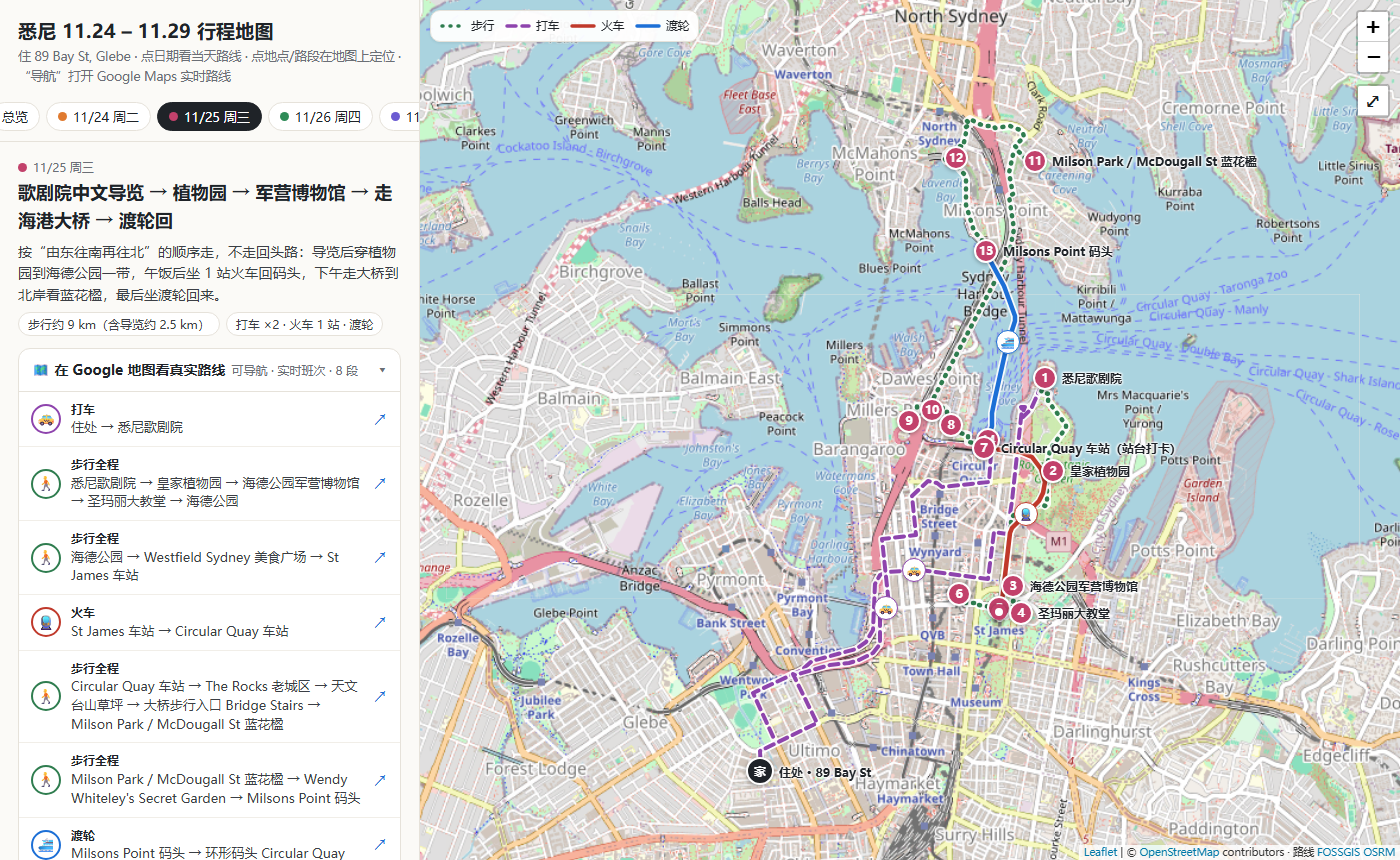
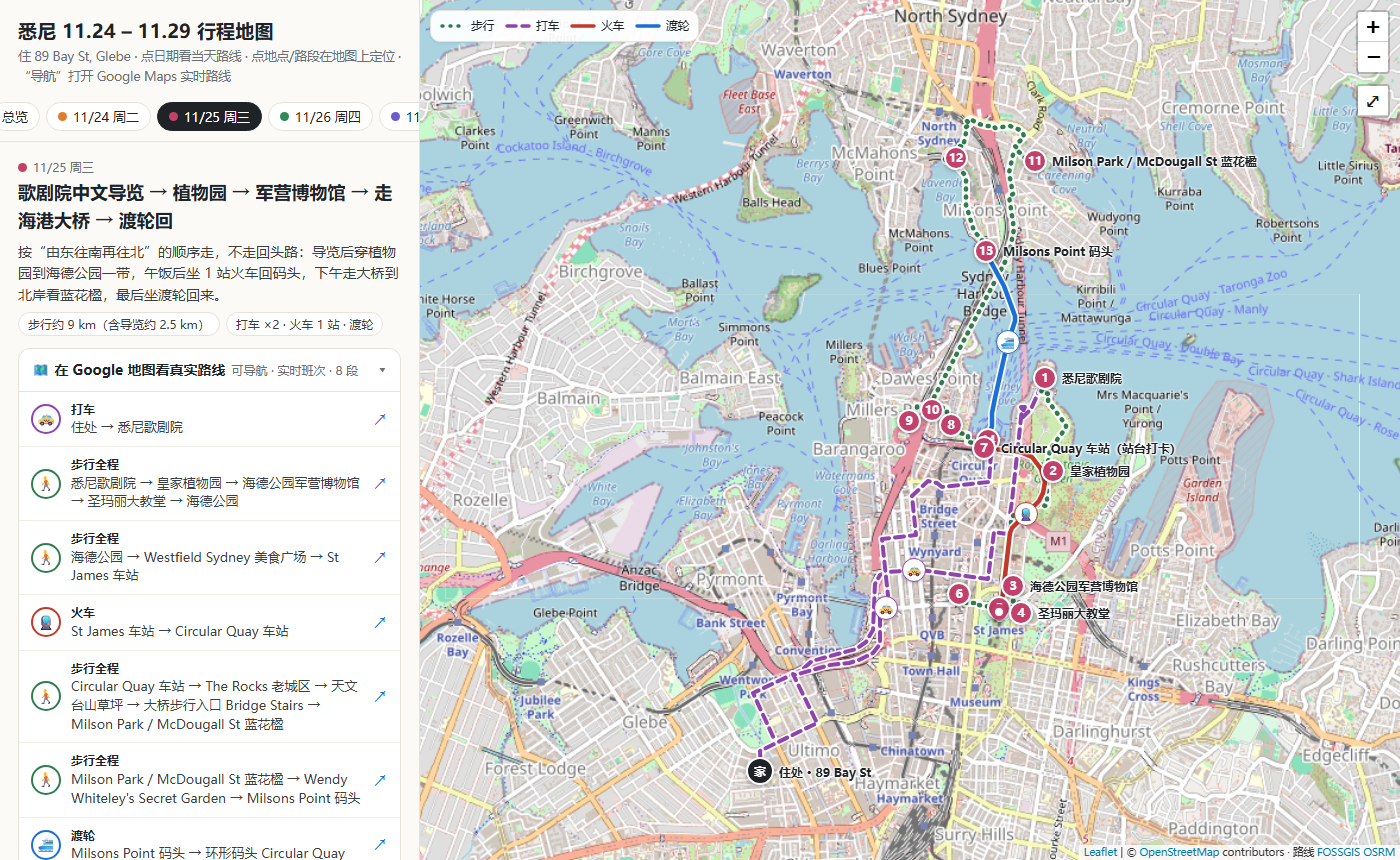
Hide map legend while a popup is open; test iPhone and Mate 40
On small screens (iPhone SE) the mode legend covered the popup title.
Leaflet's popup pane sits inside the map pane's stacking context, so a
z-index change can't lift it above the legend; hide the legend instead
while a popup is open.

Tests now run three phone profiles: iPhone 15 Pro and iPhone SE on
WebKit, Huawei Mate 40 on Chromium. WebKit gestures are dispatched as
touch events, which is what Leaflet listens to on iOS. The popup check
now also verifies the title is not covered.

diff --git a/app.css b/app.css
@@ -26,7 +26,8 @@ nav.tabs::-webkit-scrollbar{display:none}
 .leaflet-bar a.ctl{font-size:17px;line-height:30px;font-weight:600;color:var(--ink)}
 .leaflet-touch .leaflet-bar a.ctl{line-height:30px}
 .ctl-exp{display:none !important}
-.legend{position:absolute;left:10px;top:10px;z-index:900;background:rgba(255,255,255,.94);border:1px solid var(--line);border-radius:10px;padding:6px 9px;font-size:11.5px;display:flex;flex-wrap:wrap;gap:3px 11px;max-width:calc(100% - 70px);pointer-events:none;box-shadow:0 1px 3px rgba(0,0,0,.08)}
+.legend{position:absolute;left:10px;top:10px;z-index:900;transition:opacity .15s;background:rgba(255,255,255,.94);border:1px solid var(--line);border-radius:10px;padding:6px 9px;font-size:11.5px;display:flex;flex-wrap:wrap;gap:3px 11px;max-width:calc(100% - 70px);pointer-events:none;box-shadow:0 1px 3px rgba(0,0,0,.08)}
+.mapwrap.popopen .legend{opacity:0;visibility:hidden} /* 弹窗打开时收起图例，小屏上不会挡住弹窗 */
 .legend span{display:inline-flex;align-items:center;gap:5px;white-space:nowrap}
 .legend svg{display:block}
 #tip{position:absolute;z-index:1000;pointer-events:none;background:var(--ink);color:#fff;font-size:12px;padding:4px 8px;border-radius:6px;display:none;white-space:nowrap;max-width:calc(100% - 12px);overflow:hidden;text-overflow:ellipsis}

diff --git a/app.js b/app.js
@@ -191,7 +191,8 @@ function highlightLeg(x){
   legLines.forEach(o=>o.line.setStyle({opacity:o===x?1:(state.day?.35:.25)}));
   x.line.bringToFront();clearTimeout(hlTimer);
 }
-map.on("popupclose",()=>{legLines.forEach(o=>{const schem=(legInfo(o.lg)||{}).kind==="schematic";o.line.setStyle({opacity:state.day?(schem?.6:1):.8})});
+map.on("popupopen",()=>mapwrap.classList.add("popopen"));
+map.on("popupclose",()=>{mapwrap.classList.remove("popopen");legLines.forEach(o=>{const schem=(legInfo(o.lg)||{}).kind==="schematic";o.line.setStyle({opacity:state.day?(schem?.6:1):.8})});
   document.querySelectorAll(".leg.sel").forEach(e=>e.classList.remove("sel"))});
 const fmtDist=m=>m>=1000?(m/1000).toFixed(m>=10000?0:1)+" km":Math.round(m/10)*10+" m";
 

diff --git a/tests/check.py b/tests/check.py
@@ -1,4 +1,4 @@
-"""Playwright 检查：桌面 1400×860 与手机 390×844（触屏）。
+"""Playwright 检查：桌面 1400×860（Chromium），以及 iPhone 15 Pro / iPhone SE（WebKit）和华为 Mate 40（Chromium）三种手机。
 用法：先起本地服务器（python -m http.server 8765），再运行  python tests/check.py [http://127.0.0.1:8765/]
 截图写到 screenshots/。"""
 import json, math, pathlib, sys
@@ -40,9 +40,13 @@ def marker_xy(page, p):
         return {x:r.left+pt.x, y:r.top+pt.y} }""", p)
 
 def popup_inside(page):
+    """弹窗在地图范围内，并且弹窗标题没有被图例等浮层盖住"""
     return page.evaluate("""() => { const p=document.querySelector('.leaflet-popup'); if(!p) return null;
         const a=p.getBoundingClientRect(), b=document.getElementById('mapwrap').getBoundingClientRect();
-        return {inside: a.left>=b.left-1 && a.right<=b.right+1 && a.top>=b.top-1 && a.bottom<=b.bottom+1,
+        const h=p.querySelector('h4').getBoundingClientRect();
+        const covered=[[h.left+6,h.top+3],[h.left+h.width/2,h.top+3],[h.left+6,h.top+h.height/2],[h.right-6,h.top+h.height/2]]
+          .some(([x,y])=>{const e=document.elementFromPoint(x,y);return !(e && p.contains(e))});
+        return {inside: !covered && a.left>=b.left-1 && a.right<=b.right+1 && a.top>=b.top-1 && a.bottom<=b.bottom+1, covered,
                 text: p.innerText.slice(0,80), a:[a.left,a.top,a.right,a.bottom].map(Math.round), b:[b.left,b.top,b.right,b.bottom].map(Math.round)} }""")
 
 def common_checks(page, tag):
@@ -129,42 +133,74 @@ def desktop(pw):
     check("[桌面] 控制台无报错", not errs, " | ".join(errs[:5]))
     br.close()
 
-def touch(cdp, typ, pts):
-    cdp.send("Input.dispatchTouchEvent", {"type": typ, "touchPoints": [{"x": x, "y": y, "id": i} for i, (x, y) in enumerate(pts)]})
+IOS_UA = "Mozilla/5.0 (iPhone; CPU iPhone OS 18_0 like Mac OS X) AppleWebKit/605.1.15 (KHTML, like Gecko) Version/18.0 Mobile/15E148 Safari/604.1"
+# 手机机型：iPhone 用 WebKit（Safari 内核）；华为 Mate 40 用 Chromium（华为浏览器基于 Chromium），屏幕 2376×1080 @3x → 360 CSS px 宽
+PROFILES = {
+    "iphone15pro": dict(label="iPhone 15 Pro", engine="webkit", viewport={"width": 393, "height": 659}, screen={"width": 393, "height": 852}, dpr=3, ua=IOS_UA),
+    "iphonese":    dict(label="iPhone SE", engine="webkit", viewport={"width": 375, "height": 553}, screen={"width": 375, "height": 667}, dpr=2, ua=IOS_UA),
+    "mate40":      dict(label="华为 Mate 40", engine="chromium", viewport={"width": 360, "height": 720}, screen={"width": 360, "height": 792}, dpr=3,
+                        ua="Mozilla/5.0 (Linux; Android 10; OCE-AN10; HMSCore 6.13.0.302) AppleWebKit/537.36 (KHTML, like Gecko) Chrome/114.0.5735.196 HuaweiBrowser/15.0.4.312 Mobile Safari/537.36"),
+}
 
-def mobile(pw):
-    br = pw.chromium.launch()
-    ctx = br.new_context(viewport={"width": 390, "height": 844}, device_scale_factor=3, is_mobile=True, has_touch=True,
-                         user_agent="Mozilla/5.0 (iPhone; CPU iPhone OS 18_0 like Mac OS X) AppleWebKit/605.1.15 (KHTML, like Gecko) Version/18.0 Mobile/15E148 Safari/604.1")
+# iOS Safari 支持原生触摸，Leaflet 1.9 在这种浏览器里只听 TouchEvent（L.Browser.touchNative=true）。
+# Playwright 的 WebKit 不允许 new Touch()，所以构造一个带 touches/changedTouches 列表的触摸事件，结构和 Safari 发给 Leaflet 的一致。
+TOUCH_JS = """([type, pts]) => {
+  const tgt = window.__touchTgt = (type === 'touchstart' || !window.__touchTgt) ? document.elementFromPoint(pts[0][1], pts[0][2]) : window.__touchTgt;
+  const list = pts.map(([id, x, y]) => ({identifier: id, target: tgt, clientX: x, clientY: y, pageX: x + scrollX, pageY: y + scrollY, screenX: x, screenY: y, radiusX: 10, radiusY: 10, force: .5}));
+  const ev = new Event(type, {bubbles: true, cancelable: true, composed: true});
+  const active = type === 'touchend' ? [] : list;
+  for (const [k, v] of [['touches', active], ['targetTouches', active], ['changedTouches', list]]) Object.defineProperty(ev, k, {value: v});
+  tgt.dispatchEvent(ev);
+  return ev.defaultPrevented; }"""
+
+class Fingers:
+    """多指手势。Chromium 用 CDP 发真实触摸事件；WebKit 没有 CDP，改为在页面里派发触摸事件（见 TOUCH_JS）"""
+    def __init__(self, page, cdp): self.page, self.cdp, self.last = page, cdp, []
+    def _send(self, typ, pts):
+        if self.cdp:
+            self.cdp.send("Input.dispatchTouchEvent", {"type": typ, "touchPoints": [{"x": x, "y": y, "id": i} for i, (x, y) in enumerate(pts)]})
+        else:
+            self.page.evaluate(TOUCH_JS, [typ.lower(), [[i, x, y] for i, (x, y) in enumerate(pts)]])
+    def start(self, pts): self.last = pts; self._send("touchStart", pts)
+    def move(self, pts): self.last = pts; self._send("touchMove", pts)
+    def end(self): self._send("touchEnd", [] if self.cdp else self.last)
+
+def mobile(pw, key):
+    pf = PROFILES[key]; tag = pf["label"]
+    br = getattr(pw, pf["engine"]).launch()
+    ctx = br.new_context(viewport=pf["viewport"], screen=pf["screen"], device_scale_factor=pf["dpr"], is_mobile=True, has_touch=True, user_agent=pf["ua"])
     page = ctx.new_page(); logs = []; attach_console(page, logs)
-    cdp = ctx.new_cdp_session(page)
+    fingers = Fingers(page, ctx.new_cdp_session(page) if pf["engine"] == "chromium" else None)
+    VH = pf["viewport"]["height"]
+    shot = lambda name: page.screenshot(path=str(OUT / f"{key}-{name}.png"))
     page.goto(URL + "#day2"); page.wait_for_function("window.__app"); wait_idle(page, 1500)
+    check(f"[{tag}] 浏览器内核", True, page.evaluate("navigator.userAgent")[:60] + f"… engine={pf['engine']}")
     t = tiles_ok(page)
-    check("[手机] 瓦片加载", t["loaded"] > 4 and t["bad"] == 0, str(t))
-    page.screenshot(path=str(OUT / "mobile-day2-top.png"))
+    check(f"[{tag}] 瓦片加载", t["n"] >= 4 and t["loaded"] == t["n"] and t["bad"] == 0, str(t))
+    shot("day2-top")
     # 吸顶：滚动后日期栏和地图都固定在顶部
     page.evaluate("window.scrollTo(0, 900)"); page.wait_for_timeout(500)
     g = page.evaluate("""() => { const t=document.getElementById('tabs').getBoundingClientRect(), m=document.getElementById('mapwrap').getBoundingClientRect();
         return {scrollY:scrollY, tabsTop:t.top, tabsBottom:t.bottom, mapTop:m.top, mapH:m.height} }""")
-    check("[手机] 往下滚时间线：日期栏和地图固定在顶部", g["scrollY"] > 300 and abs(g["tabsTop"]) < 1 and abs(g["mapTop"] - g["tabsBottom"]) < 2, str(g))
-    page.screenshot(path=str(OUT / "mobile-day2-scrolled.png"))
+    check(f"[{tag}] 往下滚时间线：日期栏和地图固定在顶部", g["scrollY"] > 300 and abs(g["tabsTop"]) < 1 and abs(g["mapTop"] - g["tabsBottom"]) < 2, str(g))
+    shot("day2-scrolled")
     page.evaluate("window.scrollTo(0, 0)"); page.wait_for_timeout(300)
     box = page.locator("#map").bounding_box()
     cx, cy = box["x"] + box["width"] / 2, box["y"] + box["height"] / 2
     # 单指拖动：地图平移，页面不滚动
     c0 = page.evaluate("__app.map.getCenter()"); y0 = page.evaluate("scrollY")
-    touch(cdp, "touchStart", [(cx, cy)])
-    for i in range(1, 11): touch(cdp, "touchMove", [(cx - 8 * i, cy + 6 * i)]); page.wait_for_timeout(16)
-    touch(cdp, "touchEnd", []); page.wait_for_timeout(600)
+    fingers.start([(cx, cy)])
+    for i in range(1, 11): fingers.move([(cx - 8 * i, cy + 6 * i)]); page.wait_for_timeout(16)
+    fingers.end(); page.wait_for_timeout(600)
     c1 = page.evaluate("__app.map.getCenter()"); y1 = page.evaluate("scrollY")
-    check("[手机] 单指拖动只移动地图", (abs(c1["lat"] - c0["lat"]) + abs(c1["lng"] - c0["lng"])) > 1e-4 and y1 == y0, f"scroll {y0}->{y1}")
+    check(f"[{tag}] 单指拖动只移动地图", (abs(c1["lat"] - c0["lat"]) + abs(c1["lng"] - c0["lng"])) > 1e-4 and y1 == y0, f"scroll {y0}->{y1}")
     # 双指缩放：地图放大，网页本身不缩放
     z0 = page.evaluate("__app.map.getZoom()")
-    touch(cdp, "touchStart", [(cx - 30, cy), (cx + 30, cy)])
-    for i in range(1, 13): touch(cdp, "touchMove", [(cx - 30 - 9 * i, cy), (cx + 30 + 9 * i, cy)]); page.wait_for_timeout(16)
-    touch(cdp, "touchEnd", []); page.wait_for_timeout(900)
+    fingers.start([(cx - 30, cy), (cx + 30, cy)])
+    for i in range(1, 13): fingers.move([(cx - 30 - 9 * i, cy), (cx + 30 + 9 * i, cy)]); page.wait_for_timeout(16)
+    fingers.end(); page.wait_for_timeout(900)
     z1 = page.evaluate("__app.map.getZoom()"); vs = page.evaluate("visualViewport.scale")
-    check("[手机] 双指缩放只缩放地图", z1 > z0 + 0.5 and abs(vs - 1) < 1e-6, f"zoom {z0}->{z1}, page scale {vs}")
+    check(f"[{tag}] 双指缩放只缩放地图", z1 > z0 + 0.5 and abs(vs - 1) < 1e-6, f"zoom {z0}->{z1}, page scale {vs}")
     # 靠得近的标记：点在两个标记之间偏向某一个，应选中最近的那个
     page.evaluate("__app.go('day2')"); wait_idle(page, 1200)
     for tgt, other, frac in (("stmary", "hpb", 0.62), ("hpb", "stmary", 0.38)):
@@ -175,25 +211,25 @@ def mobile(pw):
         d = math.hypot(a["x"] - b["x"], a["y"] - b["y"])
         tx, ty = a["x"] + (b["x"] - a["x"]) * frac, a["y"] + (b["y"] - a["y"]) * frac
         page.touchscreen.tap(tx, ty); page.wait_for_timeout(1300)
-        check(f"[手机] 两个标记相距 {d:.0f}px，点偏向 {tgt} 的位置 → 选中 {tgt}", page.evaluate("__app.state.sel") == tgt, page.evaluate("__app.state.sel"))
+        check(f"[{tag}] 两个标记相距 {d:.0f}px，点偏向 {tgt} 的位置 → 选中 {tgt}", page.evaluate("__app.state.sel") == tgt, page.evaluate("__app.state.sel"))
     # 弹窗不超出地图（地图边缘的点也测）
     for p in ("mpwharf", "soh", "home", "milsonpark"):
         page.evaluate(f"__app.selectStop('day2','{p}',false)"); page.wait_for_timeout(1500)
         pi = popup_inside(page)
-        check(f"[手机] {p} 弹窗在地图范围内", pi and pi["inside"], str(pi))
-    page.screenshot(path=str(OUT / "mobile-popup.png"))
+        check(f"[{tag}] {p} 弹窗在地图范围内", pi and pi["inside"], str(pi))
+    shot("popup")
     # 时间线点地点（手机）
     page.evaluate("window.scrollTo(0, 700)"); page.wait_for_timeout(300)
     page.locator(".stop[data-p='westfield']").tap(); page.wait_for_timeout(1400)
-    check("[手机] 时间线点地点 → 地图定位并弹窗", page.evaluate("__app.state.sel") == "westfield" and popup_inside(page) is not None)
+    check(f"[{tag}] 时间线点地点 → 地图定位并弹窗", page.evaluate("__app.state.sel") == "westfield" and popup_inside(page) is not None)
     # 展开地图
     page.evaluate("window.scrollTo(0, 0)"); page.wait_for_timeout(300)
     h0 = page.evaluate("document.getElementById('mapwrap').offsetHeight")
     page.locator(".ctl-exp").tap(); page.wait_for_timeout(700)
     h1 = page.evaluate("document.getElementById('mapwrap').offsetHeight")
-    check("[手机] 展开地图到大半屏", h1 > 844 * 0.68 and h1 > h0 + 150, f"{h0}px -> {h1}px")
+    check(f"[{tag}] 展开地图到大半屏", h1 > VH * 0.68 and h1 > h0 + 150, f"{h0}px -> {h1}px")
     wait_idle(page, 600)
-    page.screenshot(path=str(OUT / "mobile-expanded.png"))
+    shot("expanded")
     page.locator(".ctl-exp").tap(); page.wait_for_timeout(600)
     # 地图上点路段
     page.evaluate("__app.go('day3')"); wait_idle(page, 1300)
@@ -202,18 +238,18 @@ def mobile(pw):
         return {x:r.left+pt.x, y:r.top+pt.y} }""")
     page.touchscreen.tap(mid["x"], mid["y"]); page.wait_for_timeout(900)
     pi = popup_inside(page)
-    check("[手机] 点地图上的路段 → 显示交通方式", pi and "渡轮" in pi["text"] and pi["inside"], str(pi))
-    page.screenshot(path=str(OUT / "mobile-day3-ferry.png"))
-    common_checks(page, "手机")
+    check(f"[{tag}] 点地图上的路段 → 显示交通方式", pi and "渡轮" in pi["text"] and pi["inside"], str(pi))
+    shot("day3-ferry")
+    common_checks(page, tag)
     page.evaluate("__app.go(null)"); wait_idle(page, 1000)
-    page.screenshot(path=str(OUT / "mobile-overview.png"))
+    shot("overview")
     errs = [l for l in logs if not l.startswith("warning")]
-    check("[手机] 控制台无报错", not errs, " | ".join(errs[:5]))
+    check(f"[{tag}] 控制台无报错", not errs, " | ".join(errs[:5]))
     br.close()
 
 with sync_playwright() as pw:
     desktop(pw)
-    mobile(pw)
+    for k in PROFILES: mobile(pw, k)
 fails = [r for r in results if not r[1]]
 print(f"\n{len(results) - len(fails)}/{len(results)} 通过")
 sys.exit(1 if fails else 0)
